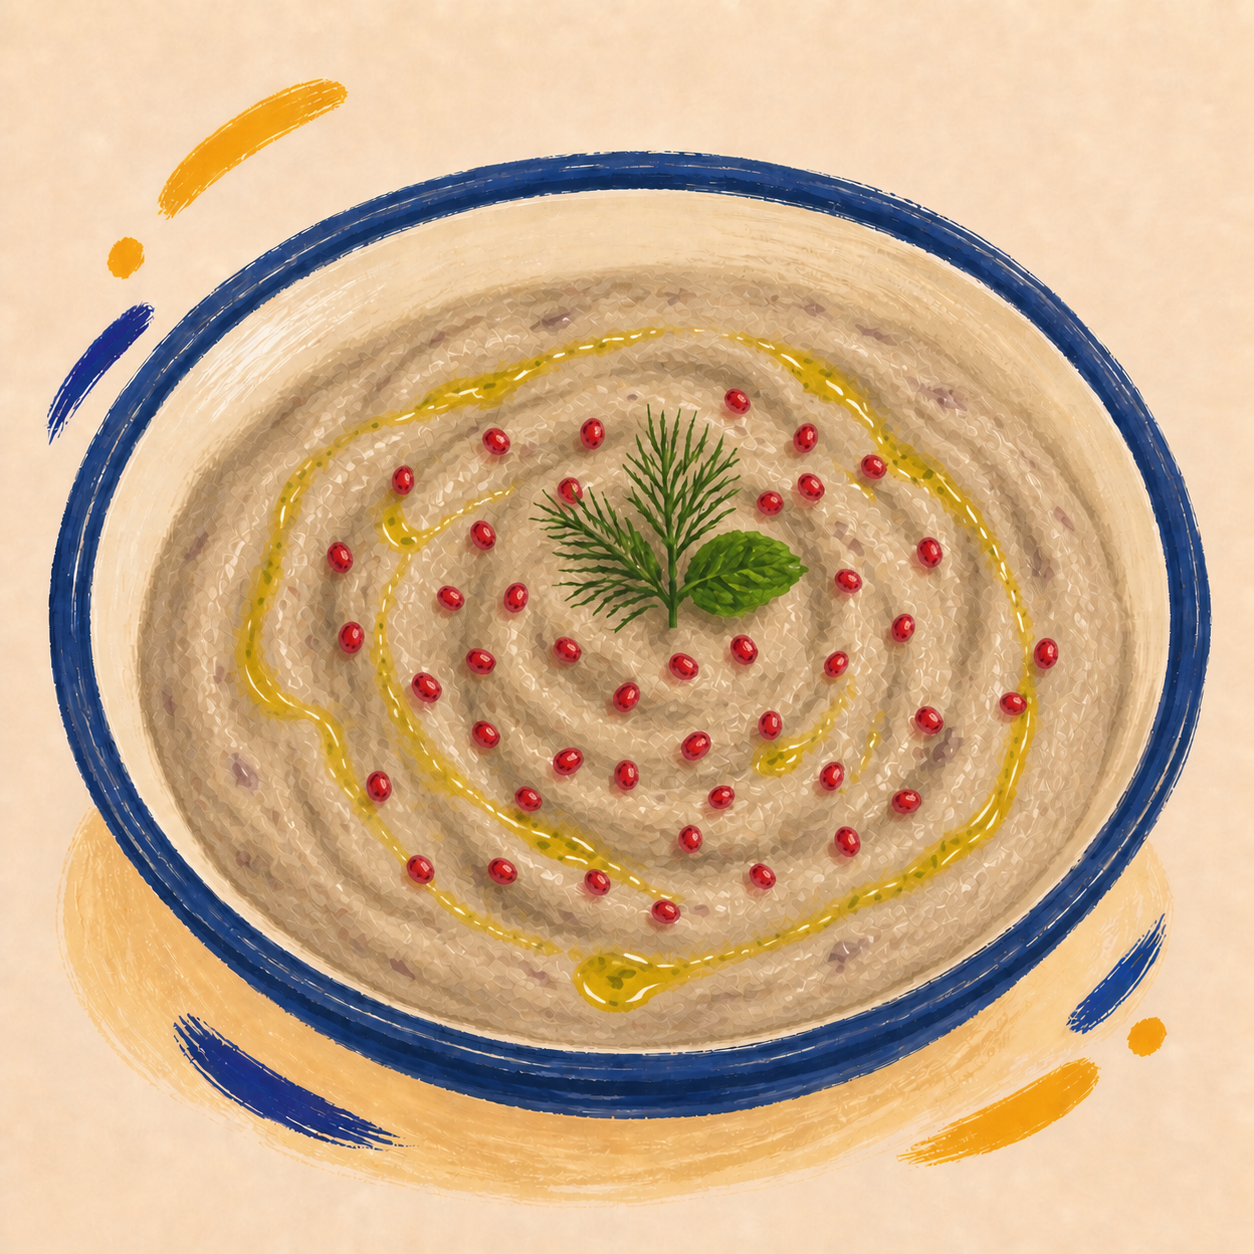
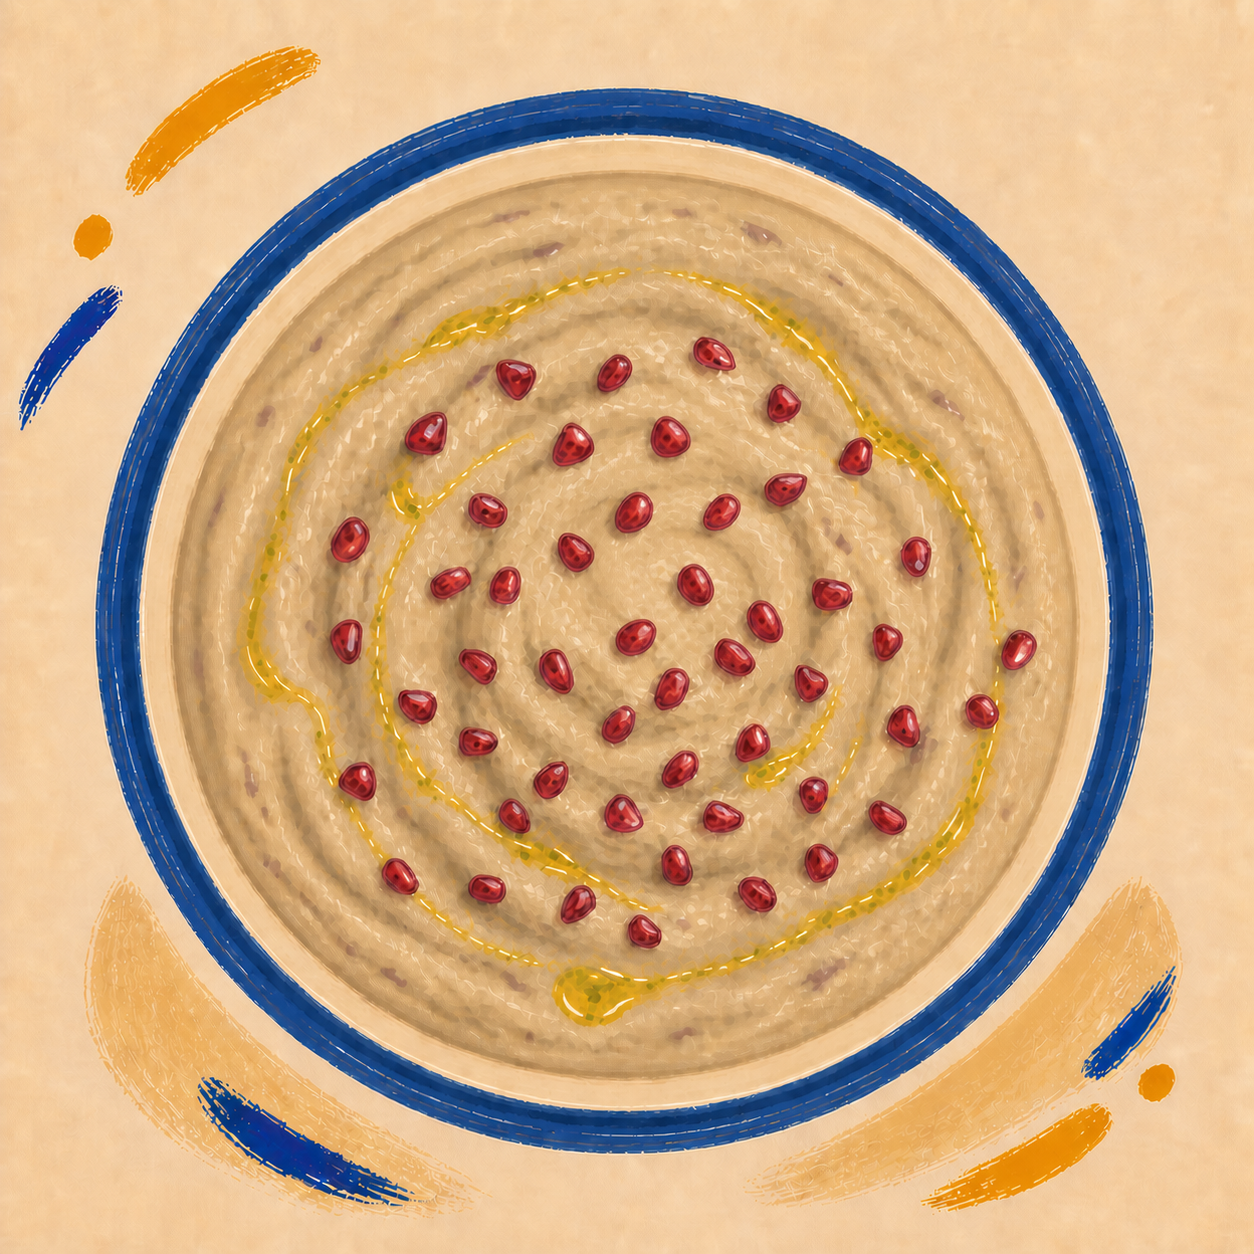
Add porridge recipe and Spotify tracks

diff --git a/src/data/recipes/porridge.ts b/src/data/recipes/porridge.ts
@@ -1,0 +1,74 @@
+import type { Recipe } from './types';
+import picture from '../../assets/porridge.png';
+
+const recipe: Recipe = {
+  id: 'porridge',
+  createdAt: '2026-08-29',
+  prepTime: 2,
+  totalTime: 15,
+  picture,
+  servings: { default: 2, min: 1, max: 6 },
+  spotifyTrackId: '57NbelD7NoWpb6dXVcOEbM',
+  ingredients: [
+    {
+      amount: 100,
+      unit: 'g',
+      name: { en: 'rolled oats', tr: 'yulaf ezmesi', es: 'copos de avena' },
+    },
+    {
+      amount: 400,
+      unit: 'g',
+      name: { en: 'milk', tr: 'süt', es: 'leche' },
+    },
+    {
+      amount: 1,
+      unit: 'tsp',
+      optional: true,
+      name: { en: 'ground cinnamon, to taste', tr: 'damak tadına göre toz tarçın', es: 'canela molida, al gusto' },
+    },
+    {
+      amount: 0.5,
+      unit: 'pcs',
+      optional: true,
+      name: { en: 'strip of orange peel', tr: 'şerit portakal kabuğu', es: 'tira de piel de naranja' },
+    },
+  ],
+  steps: [
+    {
+      text: {
+        en: 'Put the oats, milk, cinnamon, and orange peel if using into a saucepan. Stir to combine.',
+        tr: 'Yulafı, sütü, tarçını ve kullanıyorsanız portakal kabuğunu bir tencereye alın. Birleşene kadar karıştırın.',
+        es: 'Pon los copos de avena, la leche, la canela y, si la usas, la piel de naranja en una cazuela. Remueve para mezclar.',
+      },
+    },
+    {
+      text: {
+        en: 'Cook over medium-low heat, stirring frequently so it does not catch on the bottom, until the oats are soft and the porridge is creamy. Remove the orange peel before serving.',
+        tr: 'Yulaf yumuşayıp porridge kremamsı bir kıvam alana kadar, dibe tutmaması için sık sık karıştırarak orta-kısık ateşte pişirin. Servis etmeden önce portakal kabuğunu çıkarın.',
+        es: 'Cocina a fuego medio-bajo, removiendo frecuentemente para que no se pegue al fondo, hasta que los copos queden blandos y el porridge esté cremoso. Retira la piel de naranja antes de servir.',
+      },
+    },
+  ],
+  translations: {
+    en: {
+      slug: 'creamy-oat-porridge',
+      title: 'Creamy Oat Porridge',
+      indexSummary: 'A simple, creamy milk porridge with oats, cinnamon, and optional orange peel.',
+      summary: 'A comforting two-serving porridge, gently cooked until the oats are soft and creamy.',
+    },
+    tr: {
+      slug: 'kremali-yulaf-lapasi',
+      title: 'Kremalı Yulaf Lapası',
+      indexSummary: 'Süt, yulaf, tarçın ve isteğe bağlı portakal kabuğuyla hazırlanan sade, kremalı bir porridge.',
+      summary: 'Yulaflar yumuşayıp kremamsı bir kıvama gelene kadar nazikçe pişirilen, iki kişilik rahatlatıcı bir porridge.',
+    },
+    es: {
+      slug: 'porridge-de-avena',
+      title: 'Porridge de avena',
+      indexSummary: 'Un porridge cremoso y sencillo de leche, avena, canela y piel de naranja opcional.',
+      summary: 'Un porridge reconfortante para dos, cocinado suavemente hasta que la avena quede blanda y cremosa.',
+    },
+  },
+};
+
+export default recipe;

diff --git a/src/data/recipes/index.ts b/src/data/recipes/index.ts
@@ -1,8 +1,9 @@
 import patlicanSalatasi from './patlican-salatasi';
 import pastaBolognese from './pasta-bolognese';
+import porridge from './porridge';
 import type { Locale, Recipe } from './types';
 
-export const recipes: Recipe[] = [patlicanSalatasi, pastaBolognese];
+export const recipes: Recipe[] = [patlicanSalatasi, pastaBolognese, porridge];
 
 export function findRecipe(locale: Locale, slug: string): Recipe | undefined {
   return recipes.find((r) => r.translations[locale].slug === slug);

diff --git a/src/data/recipes/pasta-bolognese.ts b/src/data/recipes/pasta-bolognese.ts
@@ -9,6 +9,7 @@ const recipe: Recipe = {
   origin: { en: 'Italy', tr: 'İtalya', es: 'Italia' },
   picture,
   servings: { default: 2, min: 1, max: 6 },
+  spotifyTrackId: '7037bX3jdaUWUAXL12CHGy',
   ingredients: [
     {
       amount: 220,
